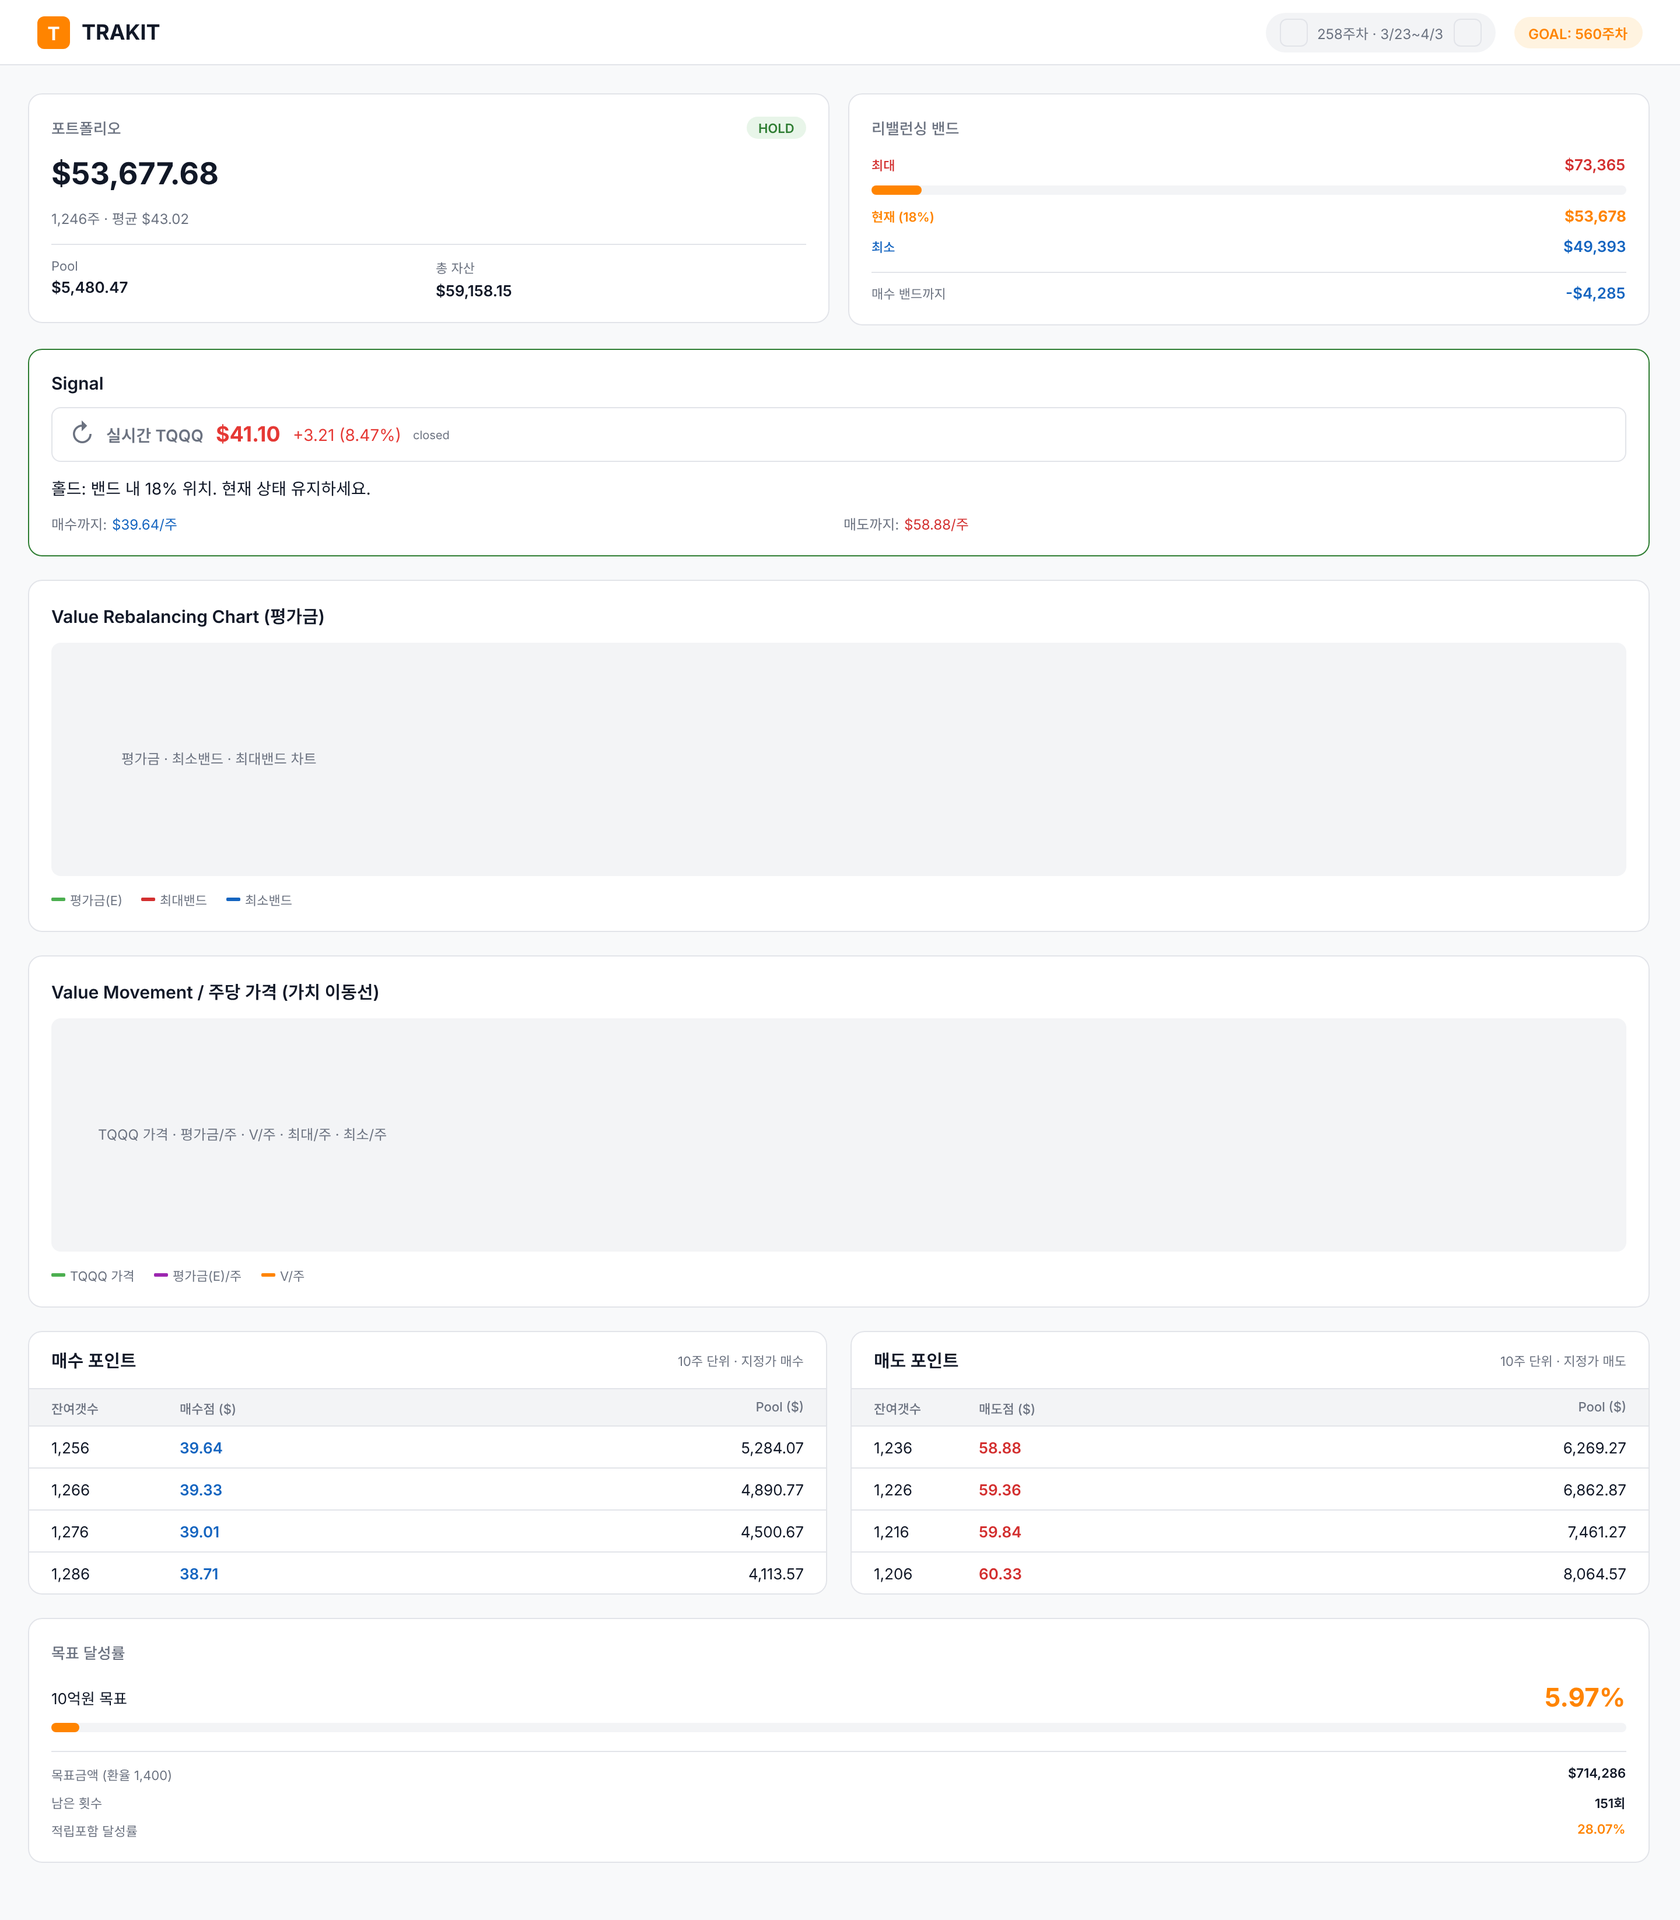
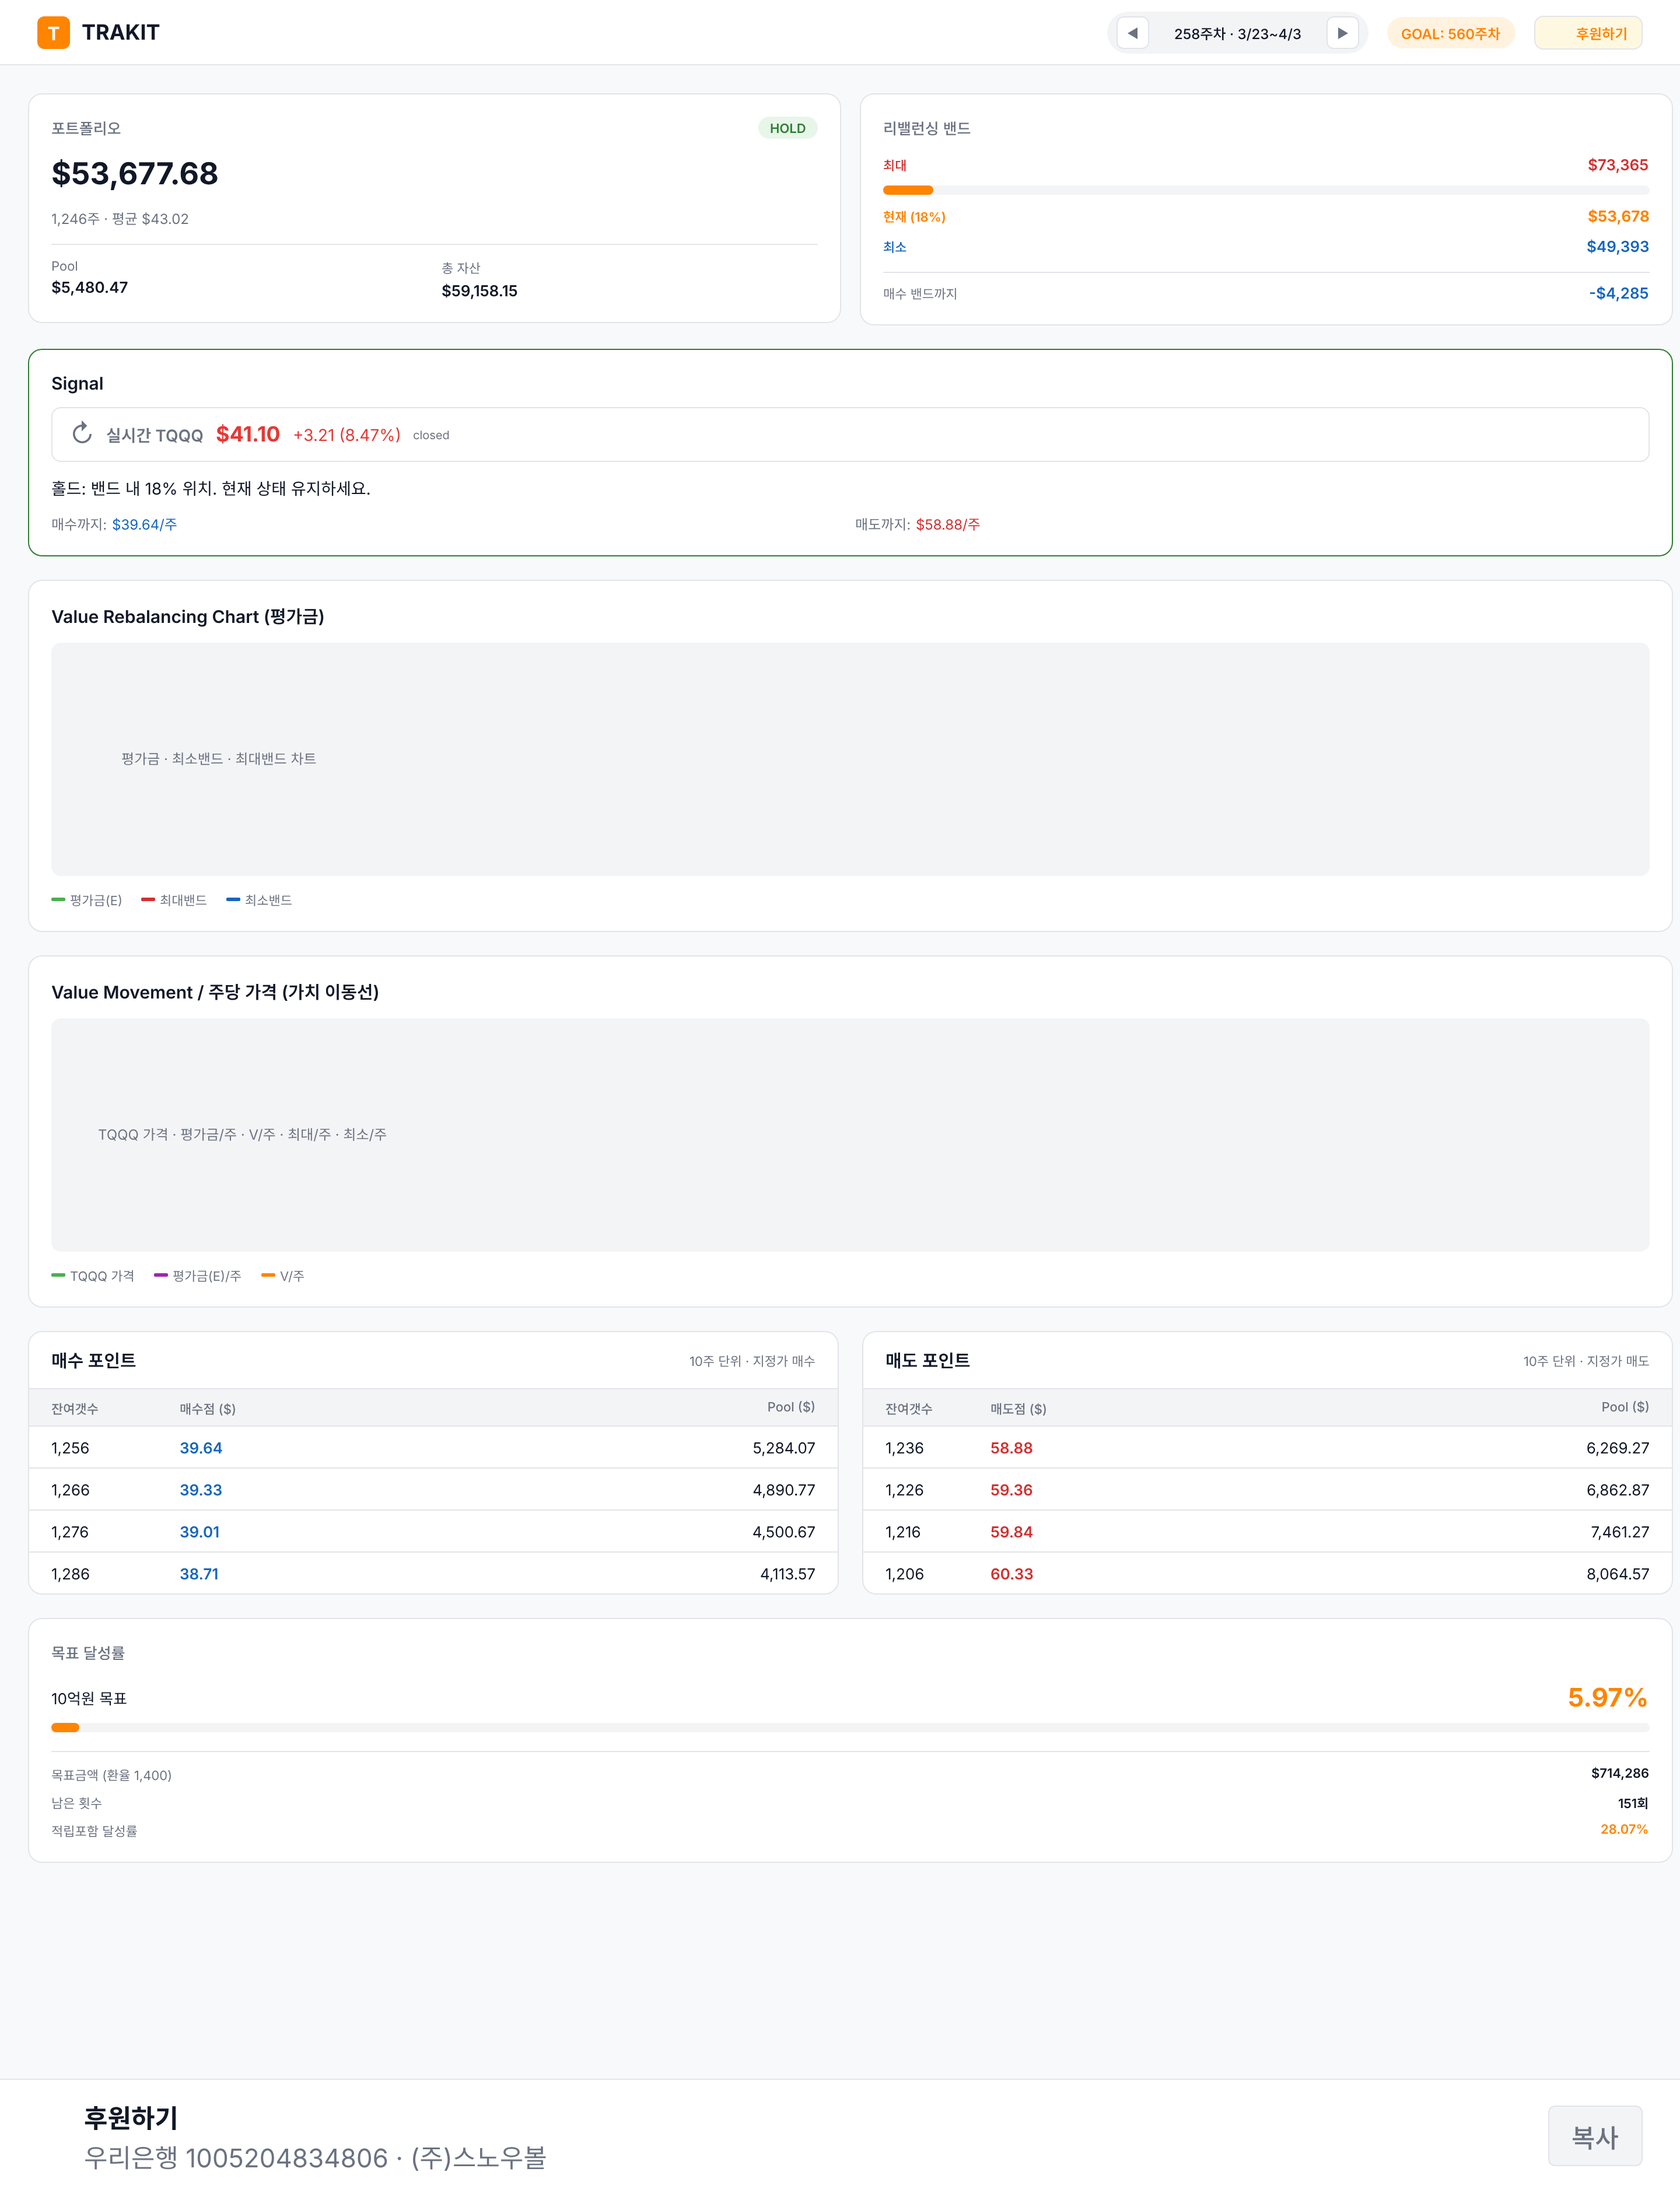
Resize sponsor card to 80% (22px) and update design screenshot

diff --git a/frontend/src/App.jsx b/frontend/src/App.jsx
@@ -254,10 +254,10 @@ export default function App() {
         </div>
         <ProgressCard portfolio={portfolio} remaining={remaining} />
         <div className="sponsor-card">
-          <span style={{ fontSize: '28px' }}>☕</span>
+          <span style={{ fontSize: '22px' }}>☕</span>
           <div className="sponsor-card-text">
-            <span style={{ fontWeight: 700, fontSize: '28px' }}>후원하기</span>
-            <span style={{ color: 'var(--text-muted)', fontSize: '28px' }}>우리은행 1005204834806 · (주)스노우볼</span>
+            <span style={{ fontWeight: 700, fontSize: '22px' }}>후원하기</span>
+            <span style={{ color: 'var(--text-muted)', fontSize: '22px' }}>우리은행 1005204834806 · (주)스노우볼</span>
           </div>
           <button className="sponsor-card-copy" onClick={(e) => {
             const text = '1005204834806';

diff --git a/frontend/src/index.css b/frontend/src/index.css
@@ -60,7 +60,7 @@ body {
 .sponsor-btn:hover { border-color: var(--primary); background: rgba(255,132,0,0.15); }
 .sponsor-card { display: flex; align-items: center; gap: 12px; padding: 16px 20px; background: var(--card-bg); border: 1px solid var(--border); border-radius: 12px; }
 .sponsor-card-text { display: flex; flex-direction: column; gap: 2px; flex: 1; }
-.sponsor-card-copy { background: var(--muted-bg); border: 1px solid var(--border); border-radius: 8px; padding: 12px 24px; font-size: 28px; font-weight: 600; color: var(--text-muted); cursor: pointer; }
+.sponsor-card-copy { background: var(--muted-bg); border: 1px solid var(--border); border-radius: 8px; padding: 10px 20px; font-size: 22px; font-weight: 600; color: var(--text-muted); cursor: pointer; }
 .sponsor-card-copy:hover { border-color: var(--primary); color: var(--primary); }
 
 /* ===== Layout ===== */
